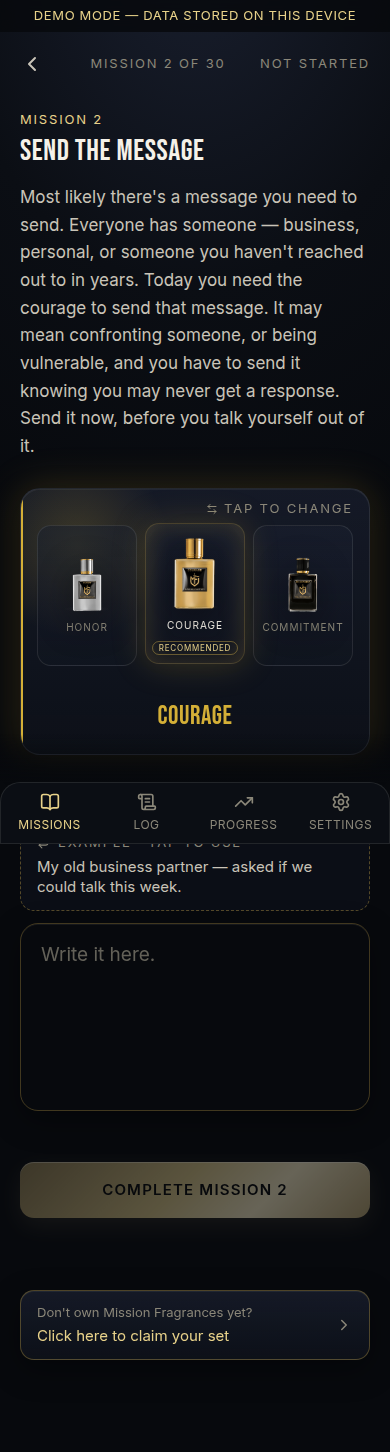
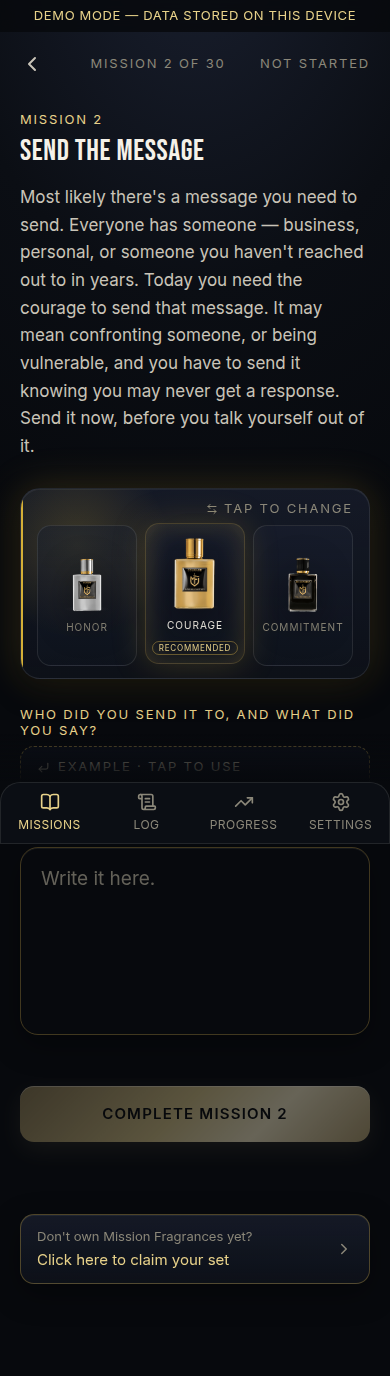
The fragrance card is the shelf and nothing else
The gold COURAGE under the row named a bottle the tile above it had already
named, and with the spray line gone the card was mostly air.

It is now one header row and the shelf: where he stands on the left
(YOUR CHOICE, or nothing when he is on the recommendation) and ⇄ TAP TO
CHANGE on the right, then the three tiles. Padding closed up to match, and
putting the state on the header row means tapping a bottle never changes the
card's height, so the question and the field below it stay put.

Claude-Session: https://claude.ai/code/session_01WVgj5E7JPb9xgPaaNWkVw6

diff --git a/src/components/FragranceCue.tsx b/src/components/FragranceCue.tsx
@@ -9,15 +9,14 @@ import { cn } from "@/lib/utils";
 /**
  * The fragrance for this Mission — the shelf, not a dropdown.
  *
- * All three bottles sit on their own tiles. The one the Mission calls for is
- * picked up: full size, lit, named, carrying the spray instruction. The other
- * two stand back on outlined tiles, one tap away, each labelled so a new man
- * knows what he would be switching to. So the recommendation is obvious, and
- * changing it costs one tap with nothing to open or find.
+ * All three bottles sit on their own tiles, each labelled, so a new man can
+ * see what he would be switching to. The one he is wearing is picked up —
+ * full size, lit, standing in its own pool of light. The one the Mission
+ * asks for carries an inner gold light and its own RECOMMENDED pill, so the
+ * suggestion still reads once he has chosen something else.
  *
- * It also carries the T of S.T.A.R. When the ritual screen was folded away,
- * "spray it and recall a moment you lived this" lost its home; it belongs on
- * the screen he is looking at while he sprays.
+ * The card says nothing it does not have to: where he stands and the fact
+ * that he can move, on one line, above the shelf.
  */
 export default function FragranceCue({
   value,
@@ -31,14 +30,13 @@ export default function FragranceCue({
   recommended?: Trigger;
   className?: string;
 }) {
-  const meta = TRIGGERS[value];
   const tone = TRIGGER_ACCENTS[value];
   const onRecommendation = recommended !== undefined && value === recommended;
 
   return (
     <div
       className={cn(
-        "glass relative overflow-hidden rounded-[20px] px-4 pt-3 pb-5",
+        "glass relative overflow-hidden rounded-[20px] px-4 pt-3 pb-3",
         className,
       )}
       style={{
@@ -62,11 +60,17 @@ export default function FragranceCue({
         }}
       />
 
-      {/* Says out loud what the tiles imply: this one is yours to change. */}
-      <p className="eyebrow relative flex items-center justify-end gap-1.5 text-ink-2">
-        <ArrowLeftRight aria-hidden size={12} className="shrink-0" />
-        TAP TO CHANGE
-      </p>
+      {/* One row: where he stands on the left, and the fact that he can move
+          on the right. No second line for either. */}
+      <div className="eyebrow relative flex items-center justify-between gap-3 text-ink-2">
+        <span className="min-w-0 truncate">
+          {recommended !== undefined && !onRecommendation ? "YOUR CHOICE" : ""}
+        </span>
+        <span className="flex shrink-0 items-center gap-1.5">
+          <ArrowLeftRight aria-hidden size={12} className="shrink-0" />
+          TAP TO CHANGE
+        </span>
+      </div>
 
       <div
         role="radiogroup"
@@ -126,30 +130,6 @@ export default function FragranceCue({
             </button>
           );
         })}
-      </div>
-
-      <div className="relative mt-3 text-center">
-        {/* The tile already says RECOMMENDED, so this line only speaks when
-            it has something to add — and keeps its height either way so the
-            name never jumps. */}
-        <p className="eyebrow min-h-[16px] text-ink-2">
-          {recommended === undefined
-            ? "YOUR FRAGRANCE"
-            : onRecommendation
-              ? ""
-              : "YOUR CHOICE"}
-        </p>
-        {/* Keyed so the line remounts on a switch: iOS Safari splices text
-            that changes in place inside a backdrop-filtered card. */}
-        <p
-          key={value}
-          className="font-display mt-1.5 text-[26px] leading-none"
-          style={{
-            color: value === "commitment" ? "var(--ink-0)" : tone.color,
-          }}
-        >
-          {meta.name}
-        </p>
       </div>
     </div>
   );

diff --git a/docs/HANDOFF.md b/docs/HANDOFF.md
@@ -19,7 +19,7 @@ states. The Vivid Vision is archived; its replacement is the compiled, printable
 
 - Owner: Antonio Centeno (product decisions). Team contact: Yuri.
 - Repo: https://github.com/aiexecutionaccelerator/mfapp (branch `main`)
-- Version: 2.4.0 (one input, one click)
+- Version: 2.4.1 (one input, one click)
 
 ## Architecture facts that matter
 
